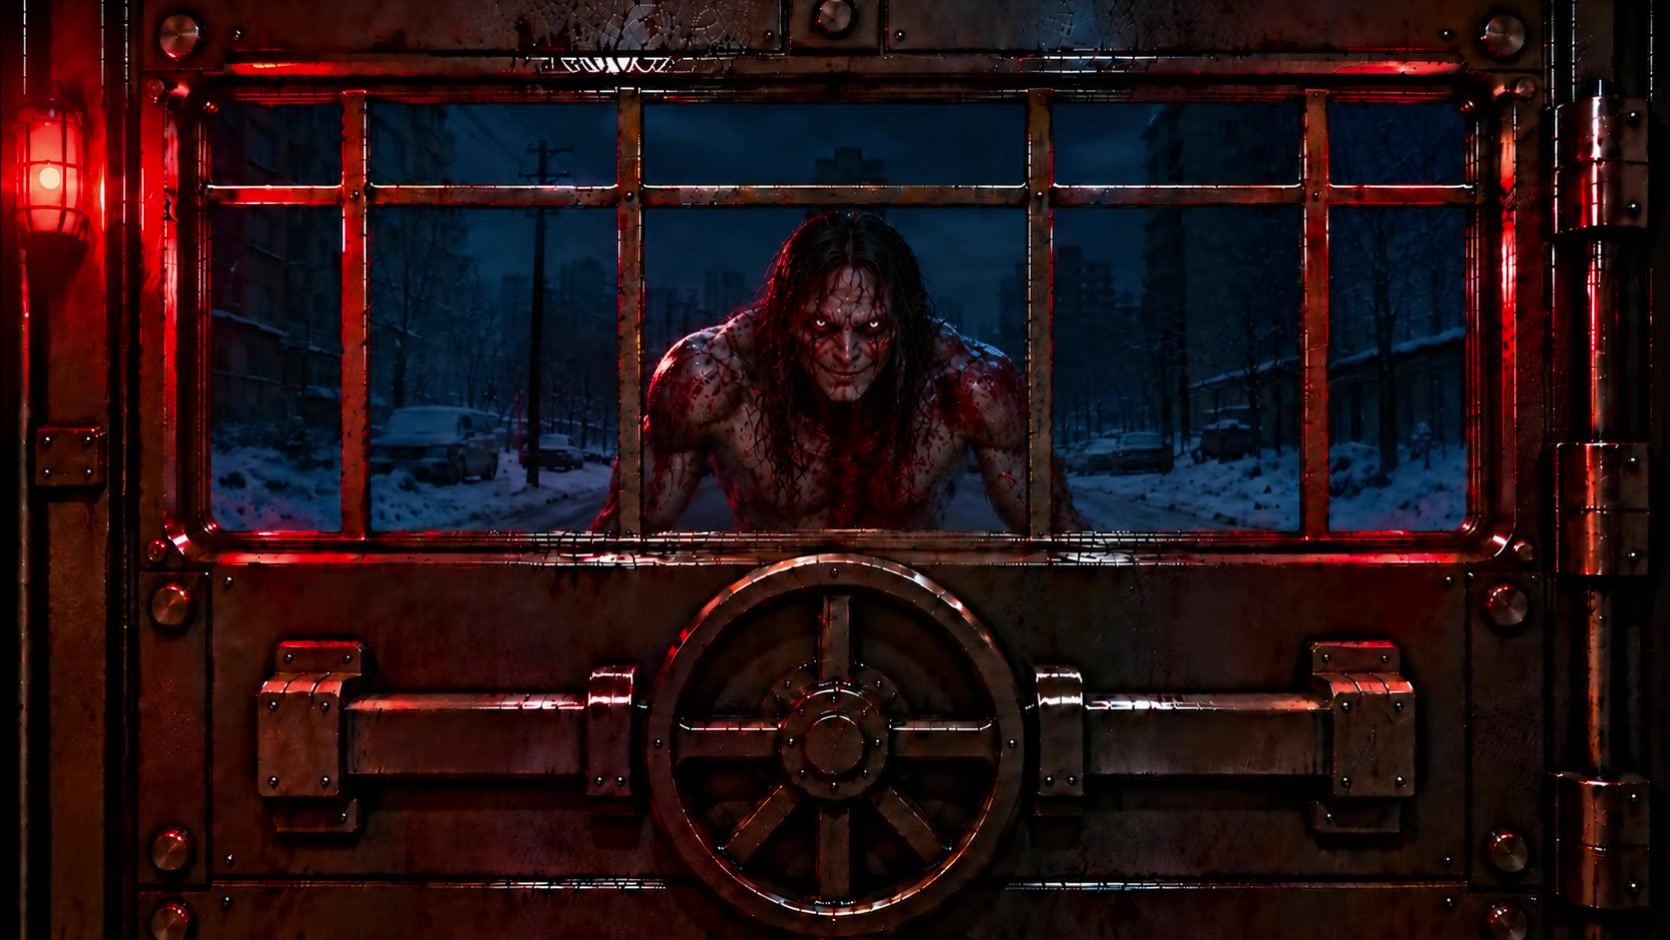
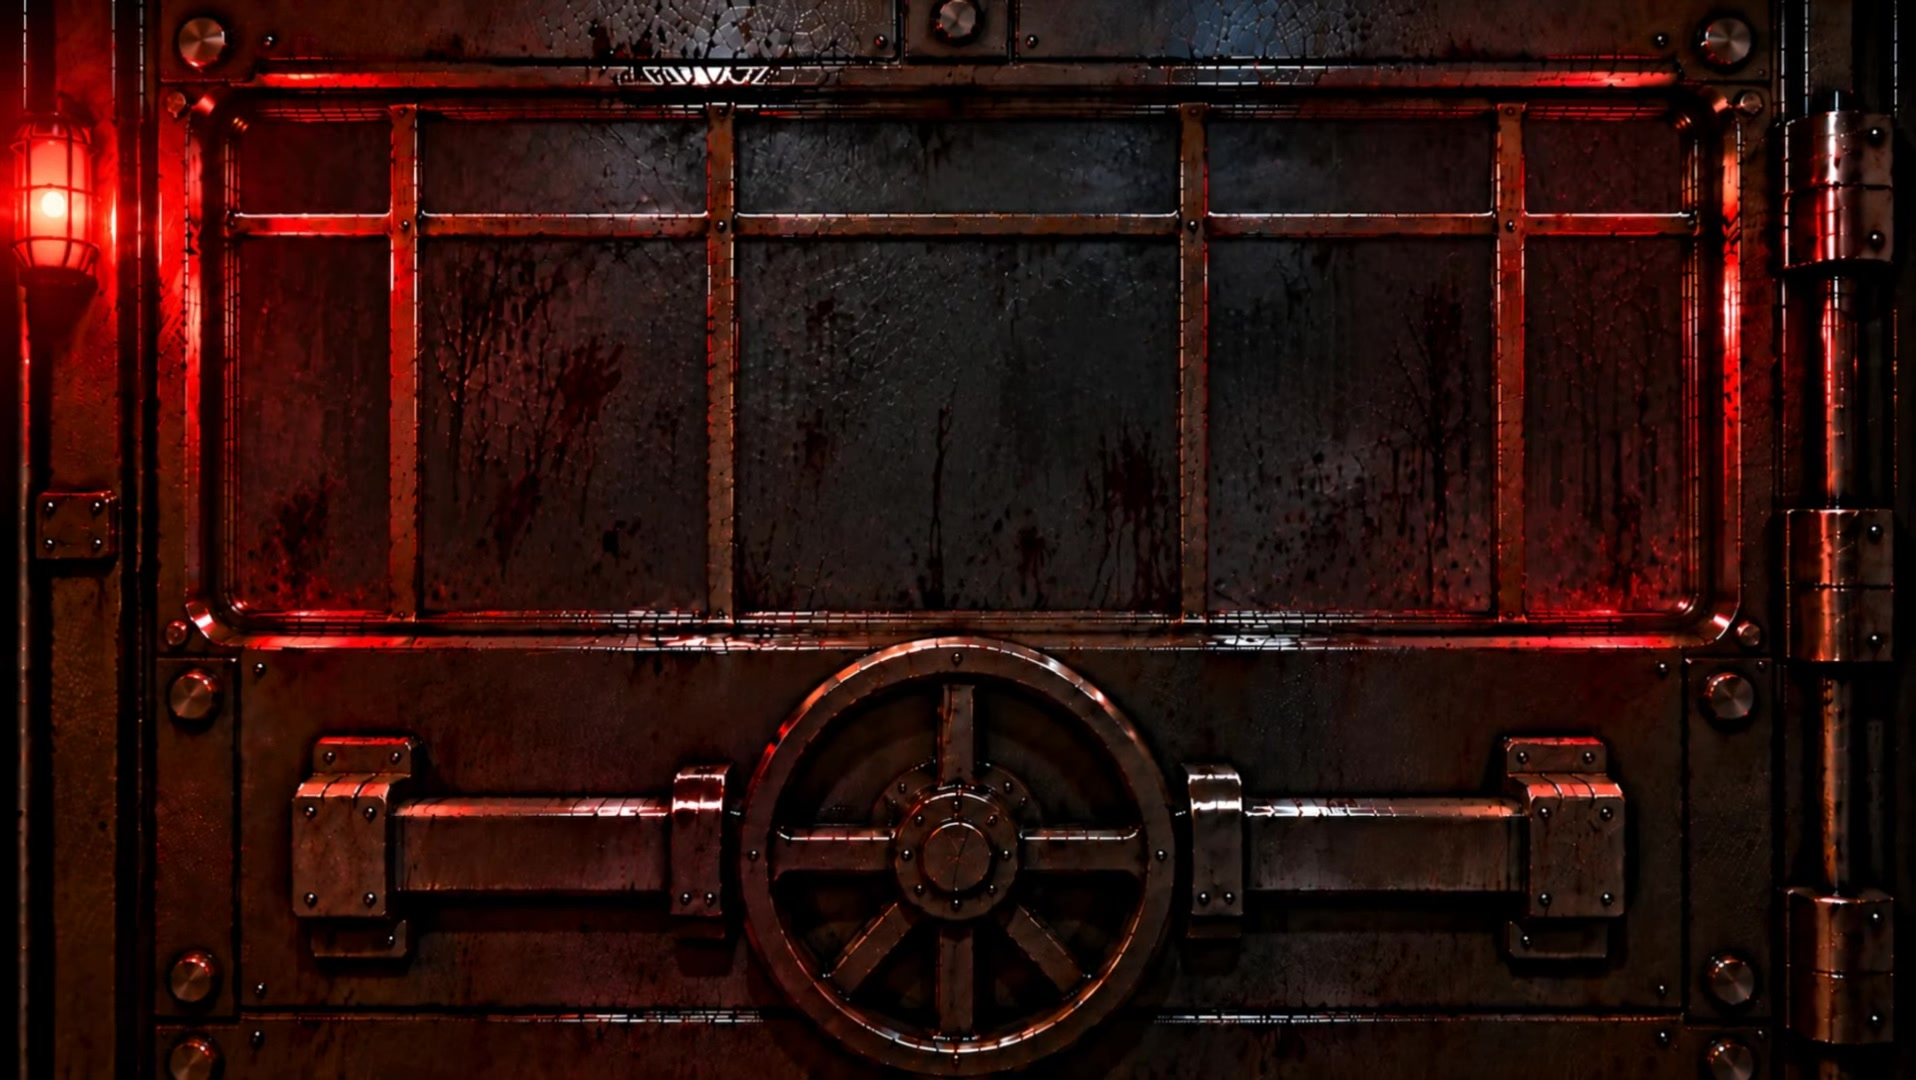
Add Margad rejection video and hold-to-skip (#45)
Use the supplied Margad chase video for rejection and add a one-second hold-to-skip control for native and web dialogue playback.

diff --git a/web/shelter-video.js b/web/shelter-video.js
@@ -22,6 +22,26 @@
   let errored = false;
   let download = null, objectUrl = null;
   let firstFrame = null;
+  let skipHoldTimer = null;
+
+  function cancelSkipHold() {
+    if (skipHoldTimer !== null) clearTimeout(skipHoldTimer);
+    skipHoldTimer = null;
+    skip.classList.remove("holding");
+    skip.textContent = "1 СЕК ДАРЖ АЛГАСАХ";
+  }
+
+  function beginSkipHold(event) {
+    if (!active || api.finished || skipHoldTimer !== null) return;
+    event.preventDefault();
+    skip.setPointerCapture?.(event.pointerId);
+    skip.classList.add("holding");
+    skip.textContent = "АЛГАСАЖ БАЙНА…";
+    skipHoldTimer = setTimeout(() => {
+      skipHoldTimer = null;
+      finish(true);
+    }, 1000);
+  }
 
   function revealVideo(current) {
     if (!active || api.finished || current !== sequence || video.readyState < 2) return;
@@ -179,8 +199,9 @@
     frame = requestAnimationFrame(updateCaption);
   }
 
-  function finish() {
+  function finish(skipped = false) {
     if (!active || api.finished) return;
+    cancelSkipHold();
     api.finished = true;
     download?.abort();
     video.pause();
@@ -188,7 +209,7 @@
     prompt.hidden = true;
     caption.hidden = true;
     // The trimmed clip's end poster also covers a stale cached, untrimmed MP4.
-    if (spec.endTime && endFrame.complete && endFrame.naturalWidth) {
+    if ((skipped || spec.endTime) && spec.endPoster && endFrame.complete && endFrame.naturalWidth) {
       endFrame.hidden = false;
     }
     cancelAnimationFrame(frame);
@@ -206,6 +227,7 @@
       spec = options;
       cueIndex = -2;
       errored = false;
+      cancelSkipHold();
       root.hidden = false;
       endFrame.hidden = true;
       if (options.endPoster) endFrame.src = encodeURI(options.endPoster);
@@ -214,7 +236,7 @@
       caption.hidden = true;
       prompt.hidden = true;
       loading.hidden = false;
-      skip.hidden = !options.intro;
+      skip.hidden = false;
       guide.hidden = options.intro;
       actions.hidden = options.intro;
       actions.replaceChildren();
@@ -259,6 +281,7 @@
     },
     close() {
       const closing = ++sequence;
+      cancelSkipHold();
       active = false;
       guideOpen = guideRequested = false;
       cancelAnimationFrame(frame);
@@ -272,7 +295,12 @@
     },
   };
 
-  skip.addEventListener("click", () => { if (spec?.intro) finish(); });
+  skip.addEventListener("pointerdown", beginSkipHold);
+  skip.addEventListener("pointerup", cancelSkipHold);
+  skip.addEventListener("pointercancel", cancelSkipHold);
+  skip.addEventListener("pointerleave", cancelSkipHold);
+  skip.addEventListener("lostpointercapture", cancelSkipHold);
+  skip.addEventListener("click", event => event.preventDefault());
   guide.addEventListener("click", () => {
     if (!active || api.finished || spec?.intro || guideOpen) return;
     guideWasPaused = video.paused;

diff --git a/web/shelter-web.css b/web/shelter-web.css
@@ -18,7 +18,11 @@ body{height:100vh;height:100dvh}
 #video-controls{position:absolute;right:40px;top:28px;display:flex;gap:16px}
 #video-pause{width:108px;font-family:Arial,sans-serif}
 #video-mute{width:190px}
-#video-skip{width:320px}
+#video-skip{position:absolute;right:48px;bottom:42px;width:330px;overflow:hidden}
+#video-skip::after{content:"";position:absolute;left:42px;bottom:17px;width:0;height:8px;background:#c8944f;box-shadow:0 0 8px #c8944faa;pointer-events:none}
+#video-skip.holding{color:#fff;border-image-source:url("shelter-ui/selected.png")}
+#video-skip.holding::after{animation:skip-hold-fill 1s linear forwards}
+@keyframes skip-hold-fill{from{width:0}to{width:246px}}
 #video-caption{position:absolute;left:50%;transform:translateX(-50%);bottom:240px;width:1344px;box-sizing:border-box;padding:22px 36px;background:#080707dd;font-size:30px;line-height:1.3;text-align:center}
 .intro #video-caption{bottom:64px;width:1520px;white-space:nowrap;font-size:36px}
 #caption-speaker{font-weight:700;color:#d9aa83}

diff --git a/web/video-overlay.html b/web/video-overlay.html
@@ -13,8 +13,8 @@
     <div id="video-controls">
       <button id="video-pause" class="metal" type="button" aria-label="Түр зогсоох">Ⅱ</button>
       <button id="video-mute" class="metal" type="button" aria-pressed="false">Дуутай</button>
-      <button id="video-skip" class="metal" type="button">Алгасах ››</button>
     </div>
+    <button id="video-skip" class="metal" type="button">1 СЕК ДАРЖ АЛГАСАХ</button>
   </div>
 </div>
 <div id="rotate-hint"><span aria-hidden="true">↻</span>Утсаа хөндлөн эргүүлж тоглоорой.</div>

diff --git a/README.md b/README.md
@@ -435,10 +435,13 @@ exact first/last video frames during decoder handoffs. The separate `Nara ok.jpg
 and stand-off artwork are no longer inserted between clips, preventing the brief
 wrong-frame flash while preserving the supplied footage and sound unchanged.
 
-Margad, 18, is the third monster in the author DOCX. His eight supplied WebMs
+Margad, 18, is the third monster in the author DOCX. His nine supplied WebMs
 are connected as eleven logical clips, including three exact ranges from the
 first-answer movie so the player's three recordings alternate with Margad's
 responses. Native and web playback share the same source-time ranges and 22
-transition posters. The supplied set has no rejection movie, so that outcome
-uses only the silent final 0.955 seconds of the intro instead of replaying
-unrelated dialogue.
+transition posters. His dedicated `ChotgorHuuh.webm` now plays in full when
+the player rejects him.
+
+Encounter dialogue has a bottom-right hold-to-skip control on native and web
+builds. It must be held continuously for one second; releasing early resets the
+progress so an accidental tap cannot skip player audio or character video.
